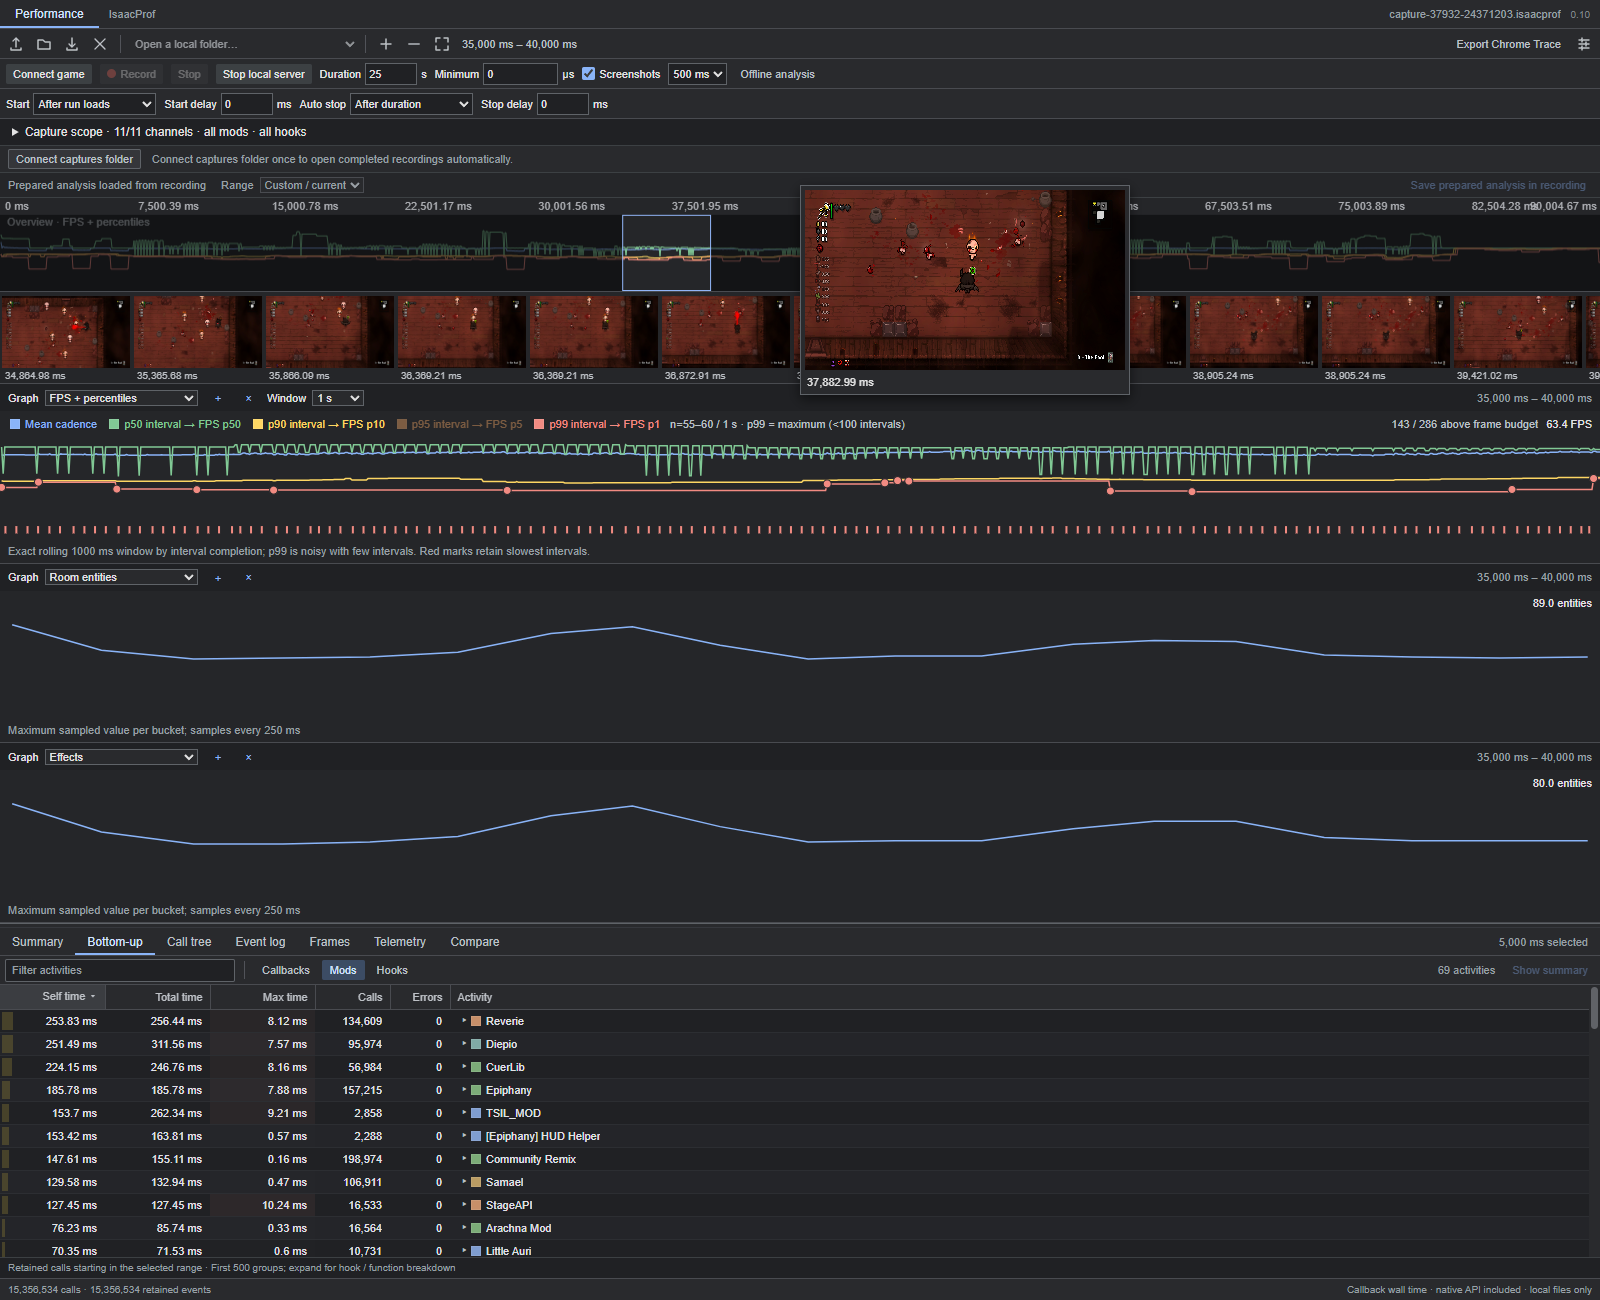
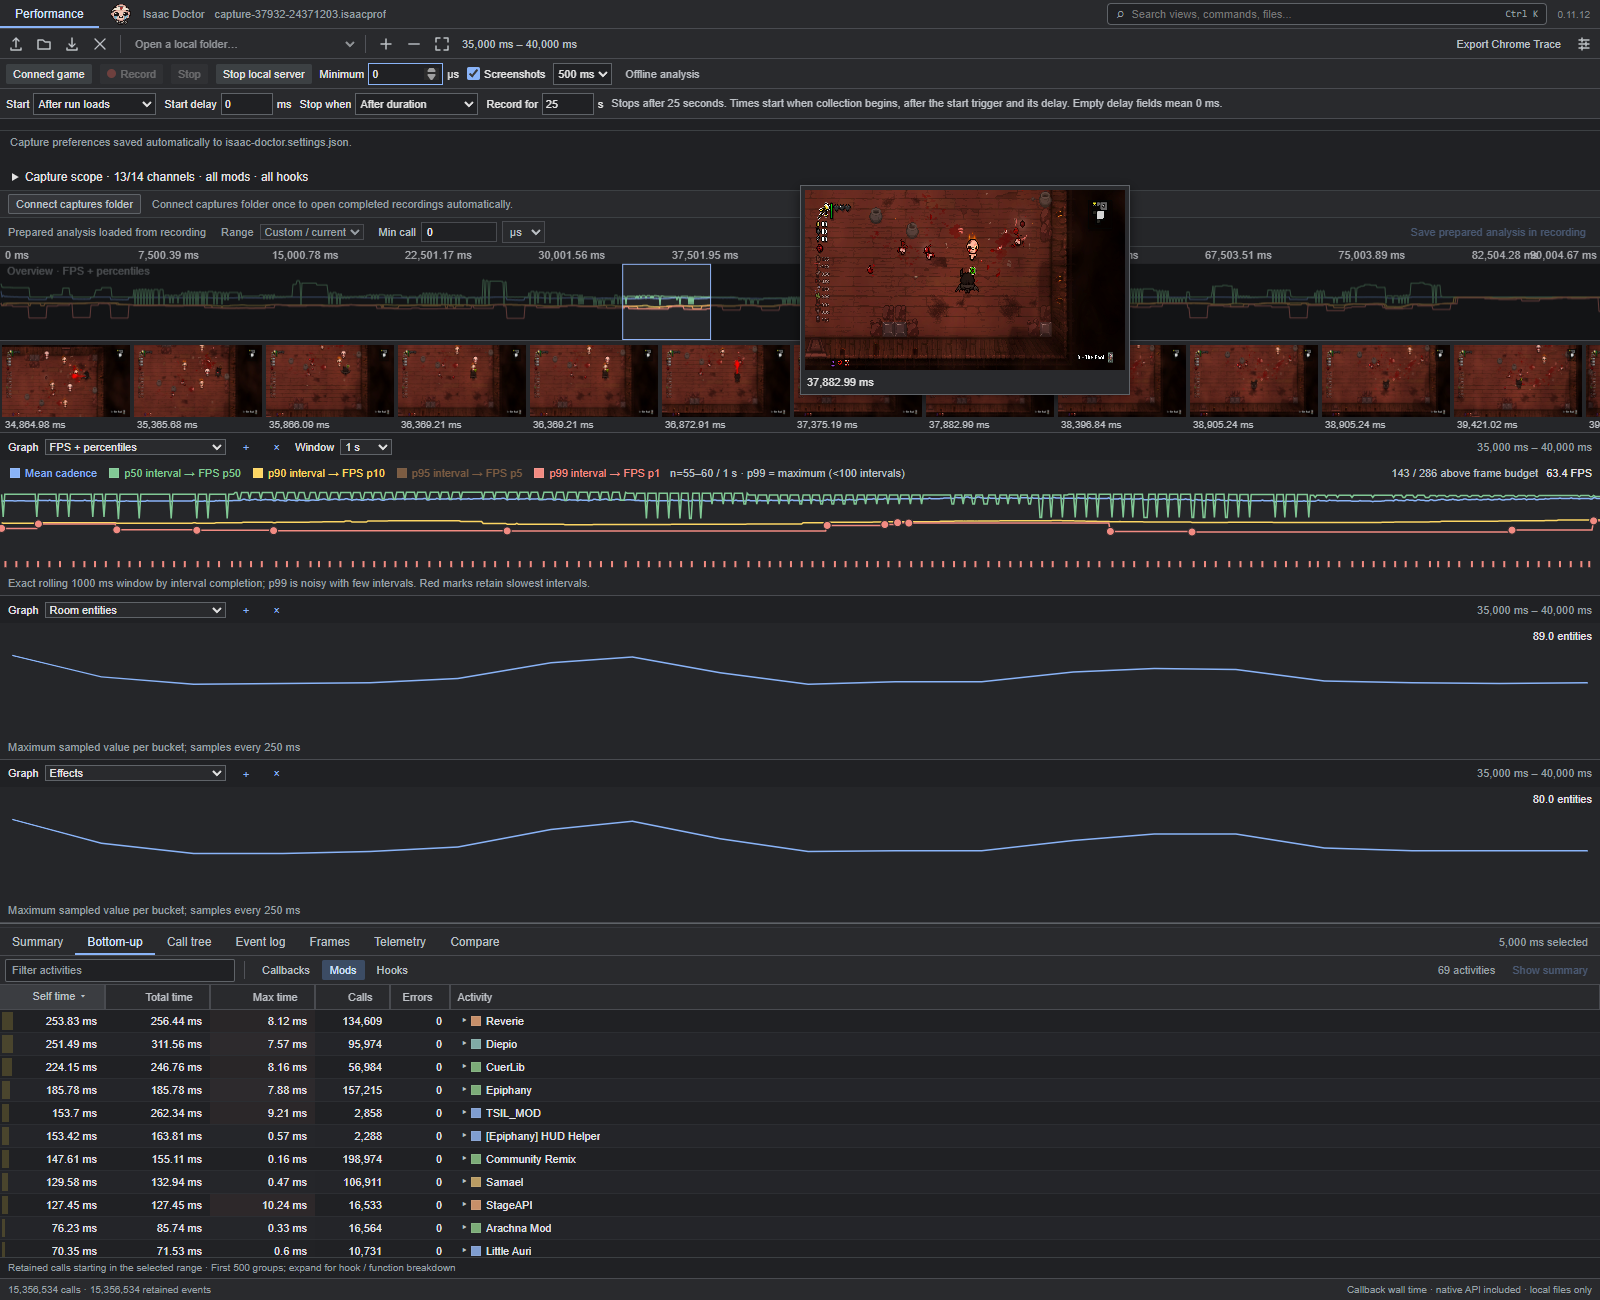
Refresh README screenshots with current profiler UI

diff --git a/README.md b/README.md
@@ -128,7 +128,7 @@ Times count from the beginning of collection, after the start condition and star
 
 ![Capture configuration: Stop when → After duration, with Record for directly beside it](docs/images/capture-configuration-record-for.png)
 
-*Record Diepio and CuerLib render/update callbacks for **25 seconds**, starting **250 ms after room entry**. Expand **Capture scope** to select the channels, mods and hooks.*
+*Example configuration: record Diepio and CuerLib render/update callbacks for **25 seconds**, starting **250 ms after room entry**. Expand **Capture scope** to select the channels, mods and hooks.*
 
 - **Channels:** select callback timings, render/update frames, counters, memory, context, markers, errors and other available data. Screenshots have a separate switch.
 - **Mods and hooks:** names load after **Connect game**. Use **Refresh lists** to read them again, select names from the dropdowns, or enter exact names one per line. Empty filters mean all; populated mod and hook filters must both match. Hooks also accept numeric IDs.
